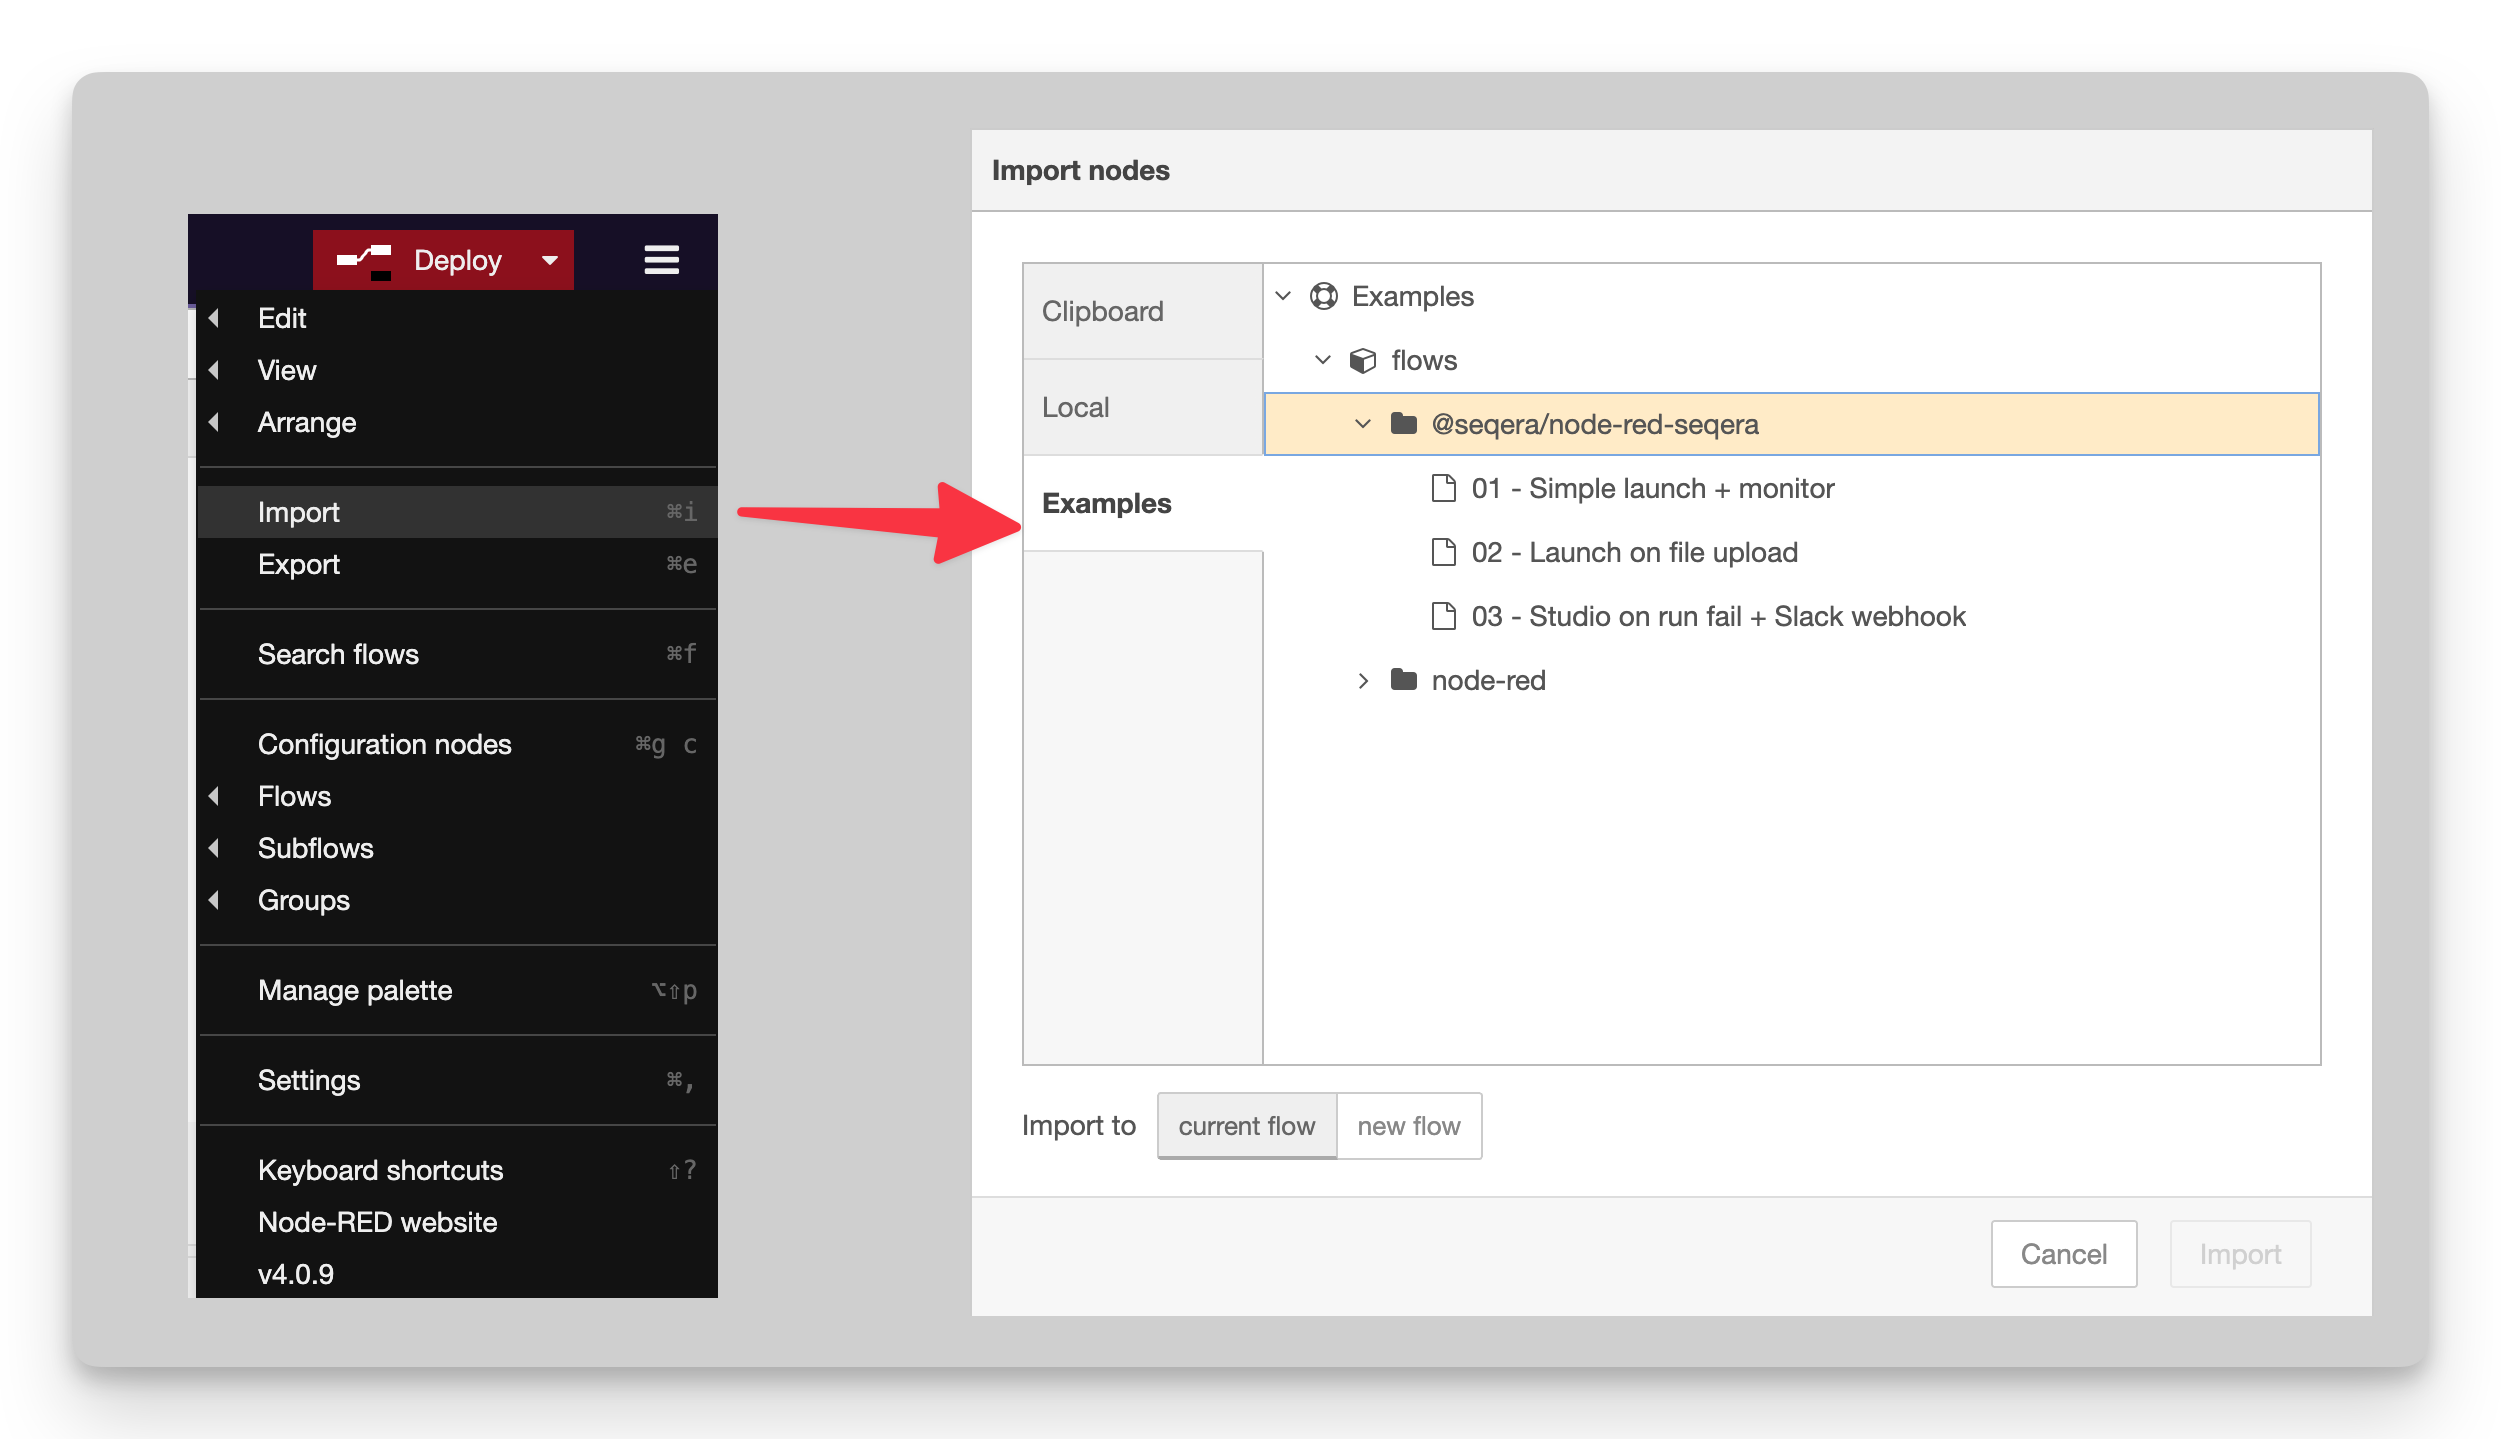
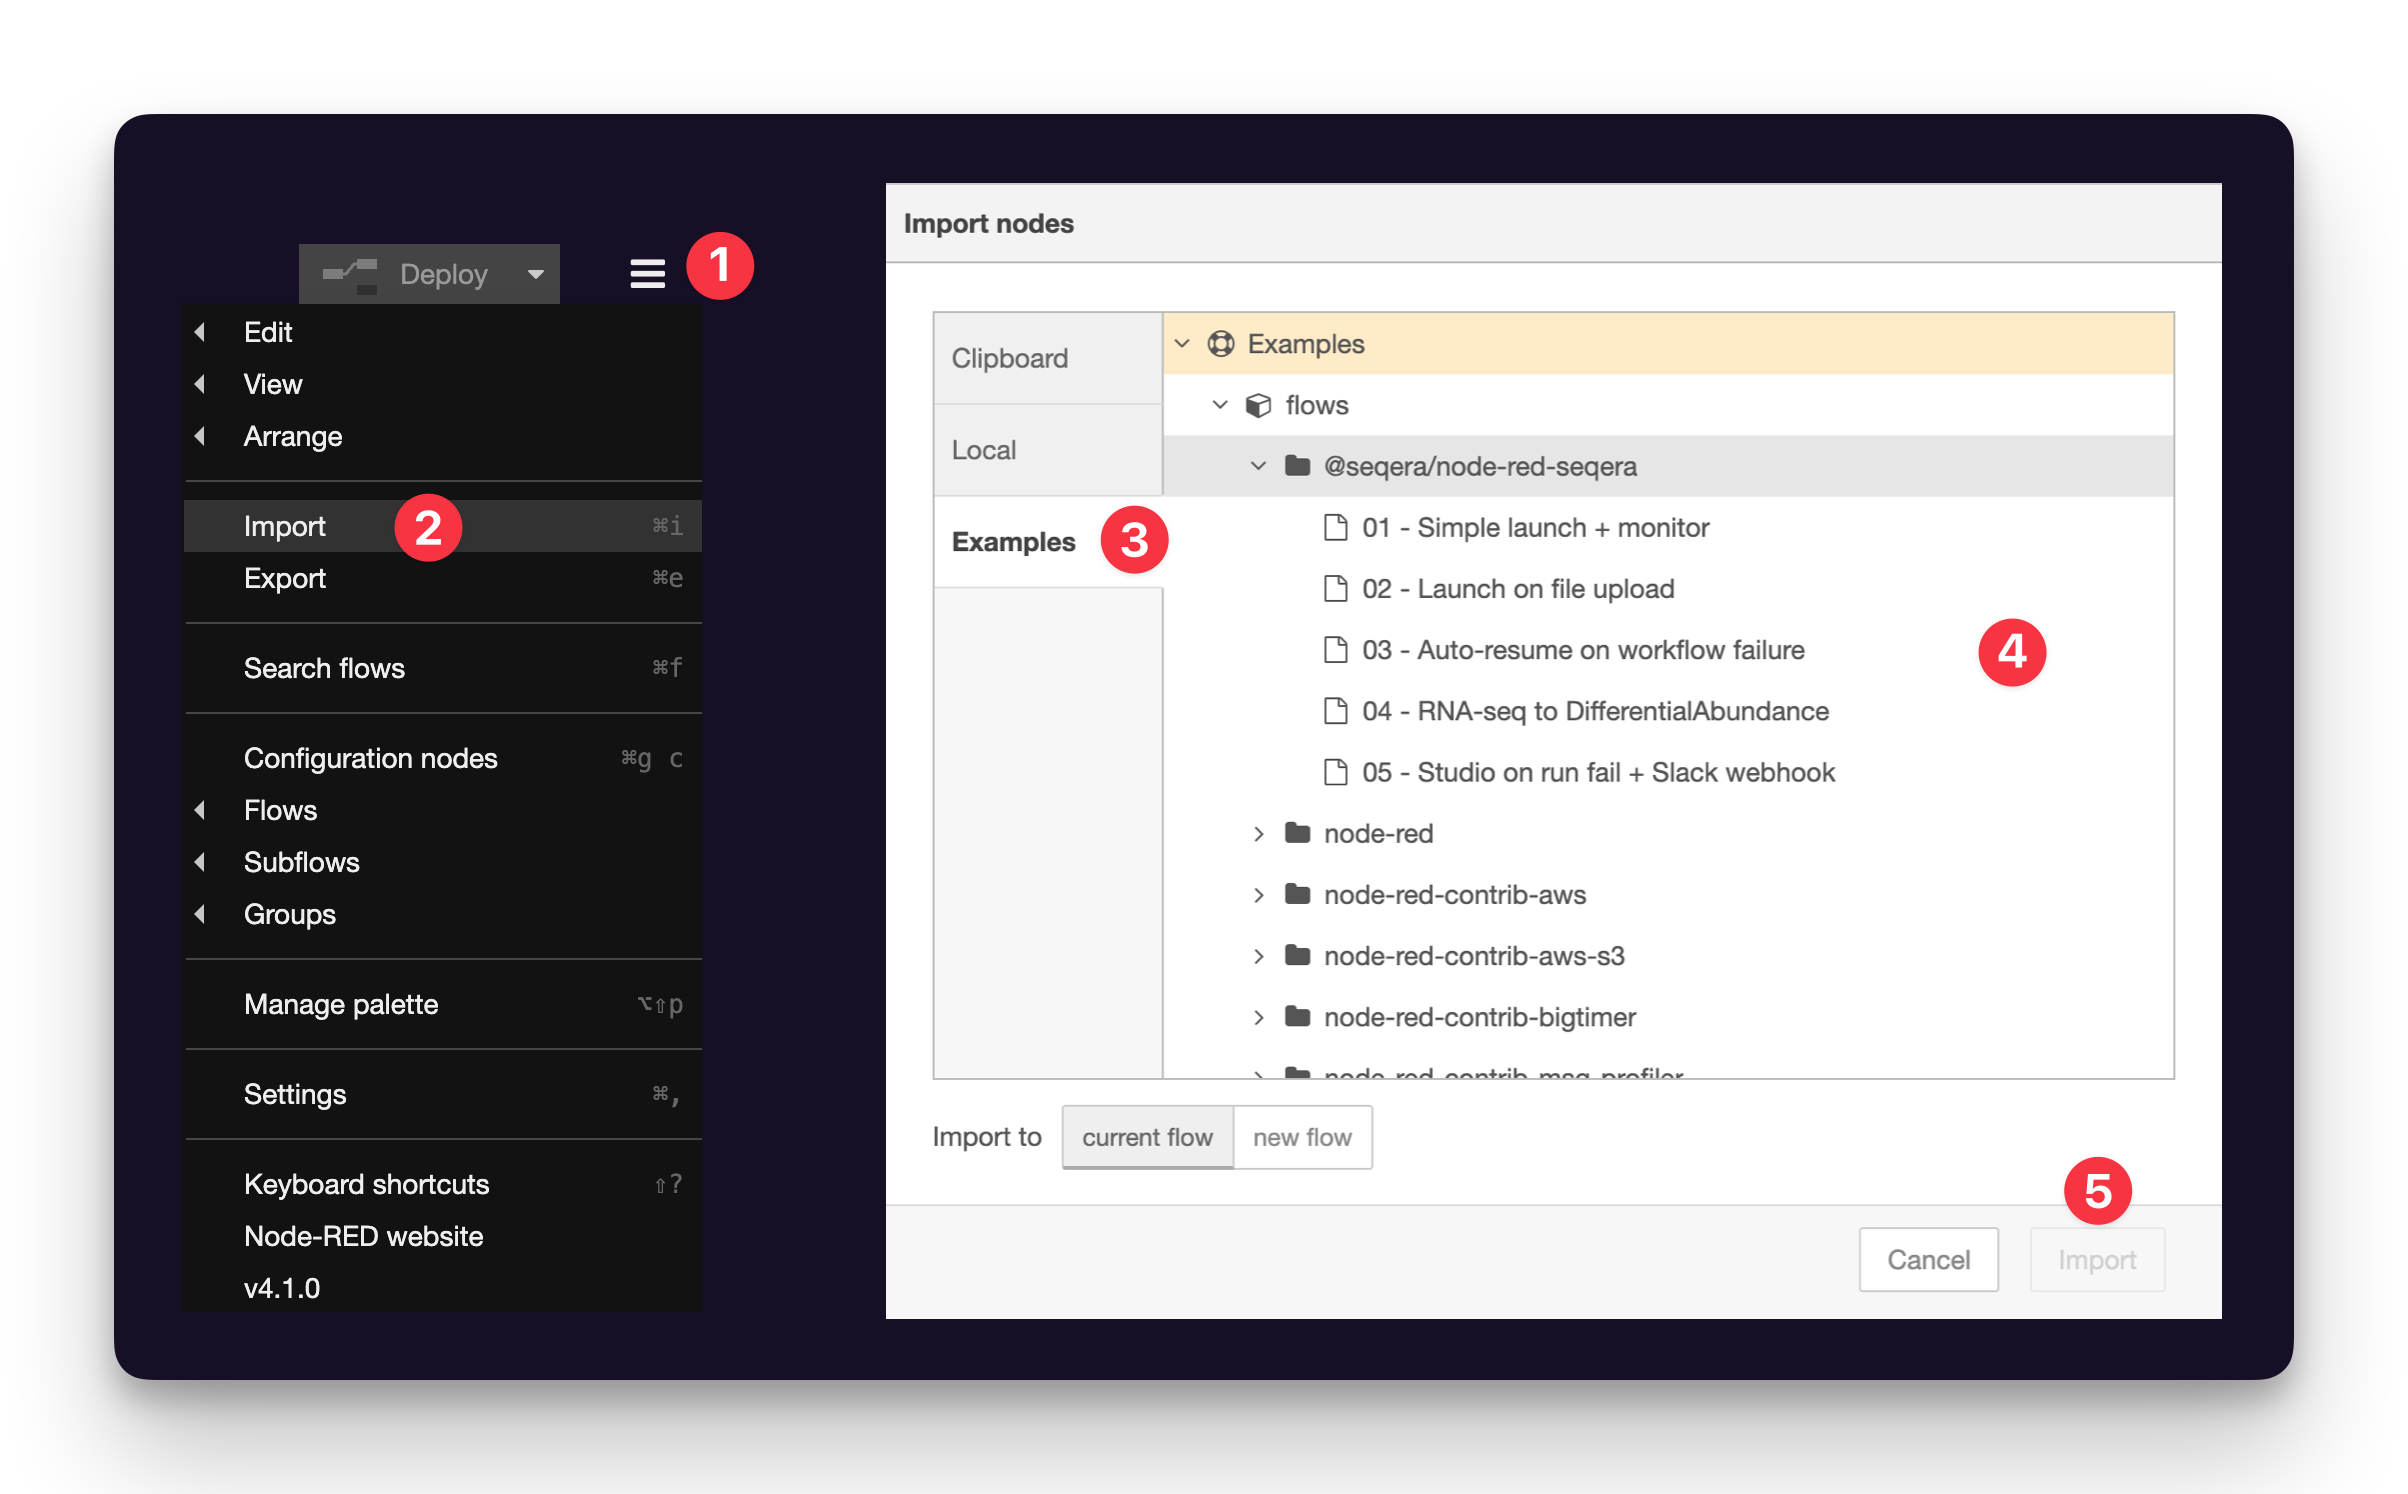
Start working on cleaning up examples docs

diff --git a/docs/examples/index.md b/docs/examples/index.md
@@ -18,6 +18,6 @@ To jump-start your development, take a look at the examples that come with the e
 
 1. [**Simple launch & monitor**](01-simple-launch-monitor.md) - The most basic workflow demonstrating core Launch and Monitor nodes
 2. [**Launch on file upload**](02-launch-on-file-upload.md) - Automatically launch pipelines when files are detected using Data Link polling
-3. [**Studio on run fail + Slack webhook**](03-studio-slack-webhook.md) - Create a debugging Studio and send Slack notifications on workflow failure
+3. [**Auto-resume on workflow failure**](05-auto-resume-on-failure.md) - Automatically resume failed workflows to recover from transient errors
 4. [**RNA-seq → Differential Abundance**](04-rnaseq-differential-abundance.md) - Chain nf-core/rnaseq and nf-core/differentialabundance pipelines together
-5. [**Auto-resume on workflow failure**](05-auto-resume-on-failure.md) - Automatically resume failed workflows to recover from transient errors
+5. [**Studio on run fail + Slack webhook**](03-studio-slack-webhook.md) - Create a debugging Studio and send Slack notifications on workflow failure

diff --git a/docs/examples/05-studio-slack-webhook.md b/docs/examples/05-studio-slack-webhook.md
@@ -1,6 +1,10 @@
-# 03 - Pipeline → Add Studio → Slack webhook
+---
+title: Studio + Slack webhook
+---
 
-`examples/03 - Studio on run fail + Slack webhook.json`
+# Pipeline → Add Studio → Slack webhook
+
+`examples/05 - Studio on run fail + Slack webhook.json`
 
 ![03 - Studio on run fail + Slack webhook.json](../img/example_flow_03.png)
 

diff --git a/docs/examples/04-rnaseq-differential-abundance.md b/docs/examples/04-rnaseq-differential-abundance.md
@@ -1,4 +1,8 @@
-# 04 - RNA-seq → Differential Abundance
+---
+title: Pipeline chaining
+---
+
+# Pipeline Chaining: RNA-seq → Differential Abundance
 
 `examples/04 - RNA-seq to DifferentialAbundance.json`
 

diff --git a/docs/examples/03-auto-resume-on-failure.md b/docs/examples/03-auto-resume-on-failure.md
@@ -1,4 +1,6 @@
-# 05 - Auto-resume on workflow failure
+# Auto-resume on workflow failure
+
+`examples/03 - Auto-resume on workflow failure.json`
 
 `examples/05 - Auto-resume on workflow failure.json`
 

diff --git a/docs/examples/01-simple-launch-monitor.md b/docs/examples/01-simple-launch-monitor.md
@@ -1,4 +1,4 @@
-# 01 - Simple launch & monitor
+# Simple launch & monitor
 
 `examples/01 - Simple launch + monitor.json`
 

diff --git a/docs/examples/02-launch-on-file-upload.md b/docs/examples/02-launch-on-file-upload.md
@@ -1,4 +1,4 @@
-# 02 - Launch on file upload
+# Launch on file upload
 
 `examples/02 - Launch on file upload.json`
 
